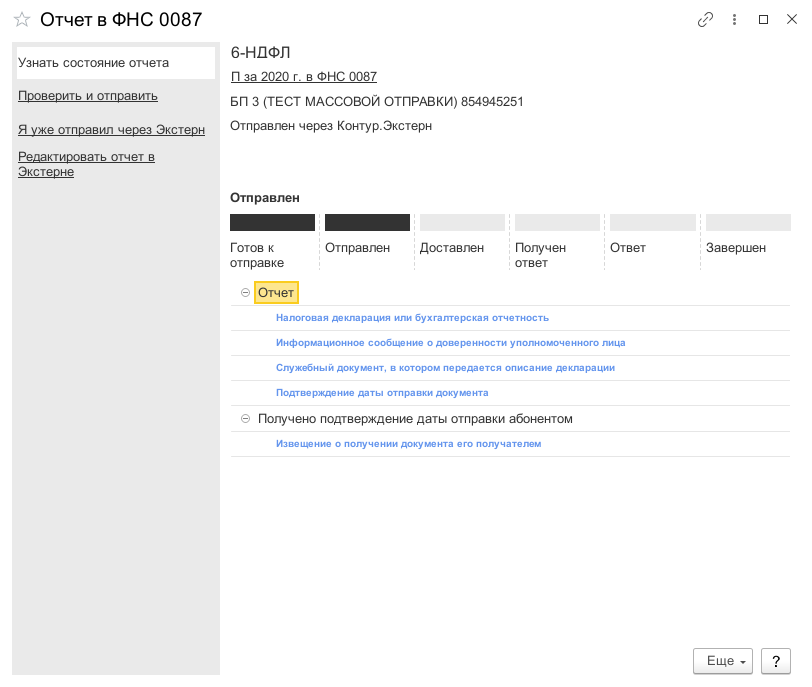
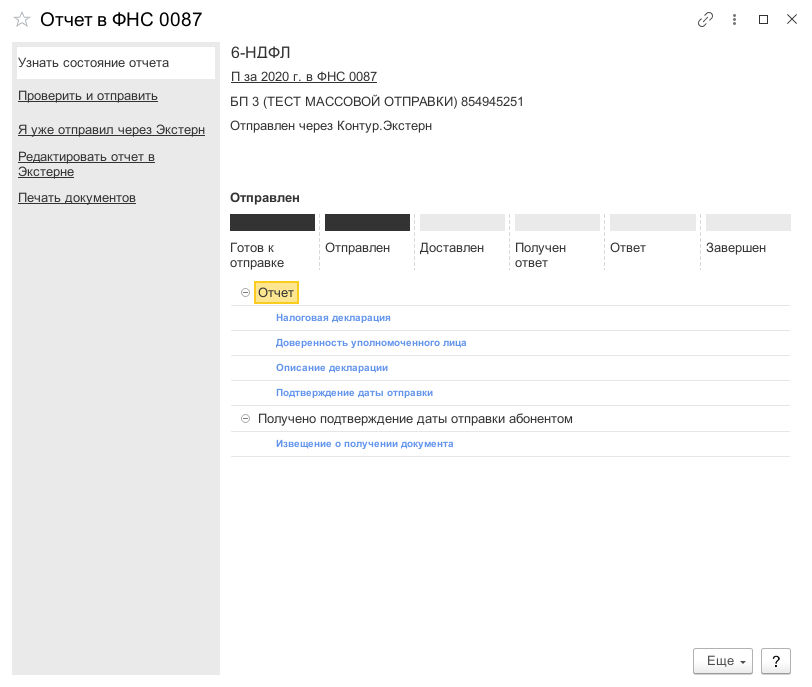
extern_deploy_doc

Changed region(s): [[0.3387, 0.4585, 0.7697, 0.5808], [0.0308, 0.2751, 0.1847, 0.3057], [0.5542, 0.6419, 0.6773, 0.6725]]

diff --git a/docs/extension.md b/docs/extension.md
@@ -1,0 +1,32 @@
+# Расширение конфигурации
+
+Теперь экстерн для 1с можно [скачать](https://update.testkontur.ru/1c/v1/kext/extension), как [расширение конфигурации](https://v8.1c.ru/platforma/rasshireniya/)
+
+## Возможности
+
+Расширение позволяет нам делать интеграцию, с вашей системой, более тесной, в будущем для расширения будут создаваться уникальные функции, которые позволят:
+
+1. Получать сообщения из налоговой незаметно для пользователя
+2. Отправлять и проверять отчеты из списка 1с-отчетность, не открывая модуль
+
+## Установка
+
+Установить расширение можно несколькими способами
+
+### Из модуля
+
+* [Скачать](https://update.testkontur.ru/1c/v1/kext/data-processor) модуль, как внешнюю обработку и открыть (Файл -> Открыть)
+* Вам будет предложено установить расширение, если это возможно сделать в вашей системе
+
+### Функции для технического специалиста
+
+* Открыть меню [Функции для технического специалиста](https://v8.1c.ru/platforma/rezhim-tekhnicheskogo-spetsialista/)
+* Раздел "Стандартные"
+* Стандартная обработка "Управление расширениями конфигурации"
+* Добавить расширение из файла
+
+### Администрирование
+
+* Открыть настройку "Печатные формы отчеты и обработки"
+* Пункт "Расширения"
+* Добавить из файла

diff --git a/docs/Печать.md b/docs/Печать.md
@@ -1,0 +1,10 @@
+**Функционал:** Печать
+
+
+**Сценарий:** Налоговая декларация + квитанция
+
+	001. Выберите документы, что хотите напечатать, ваш выбор будет сохранен
+![](Печать/Печать_11_Налоговая_декларация__квитанци_001.png)
+
+	002. Печатные формы сформирован, их можно сохранить или напечатать
+![](Печать/Печать_13_Налоговая_декларация__квитанци_002.png)
